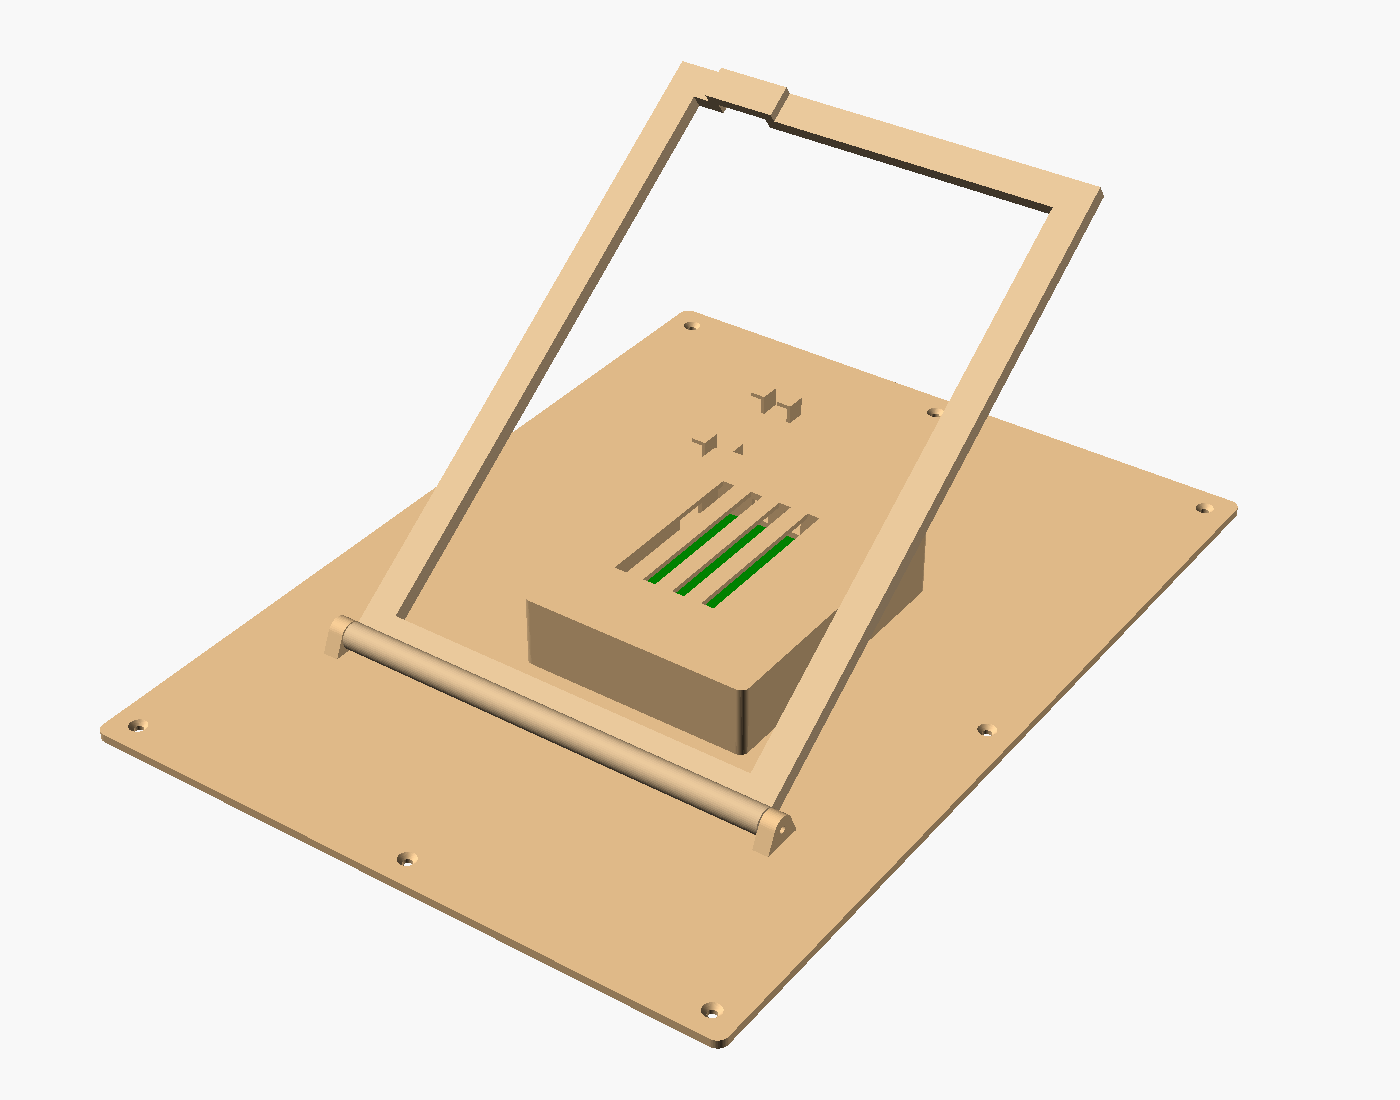
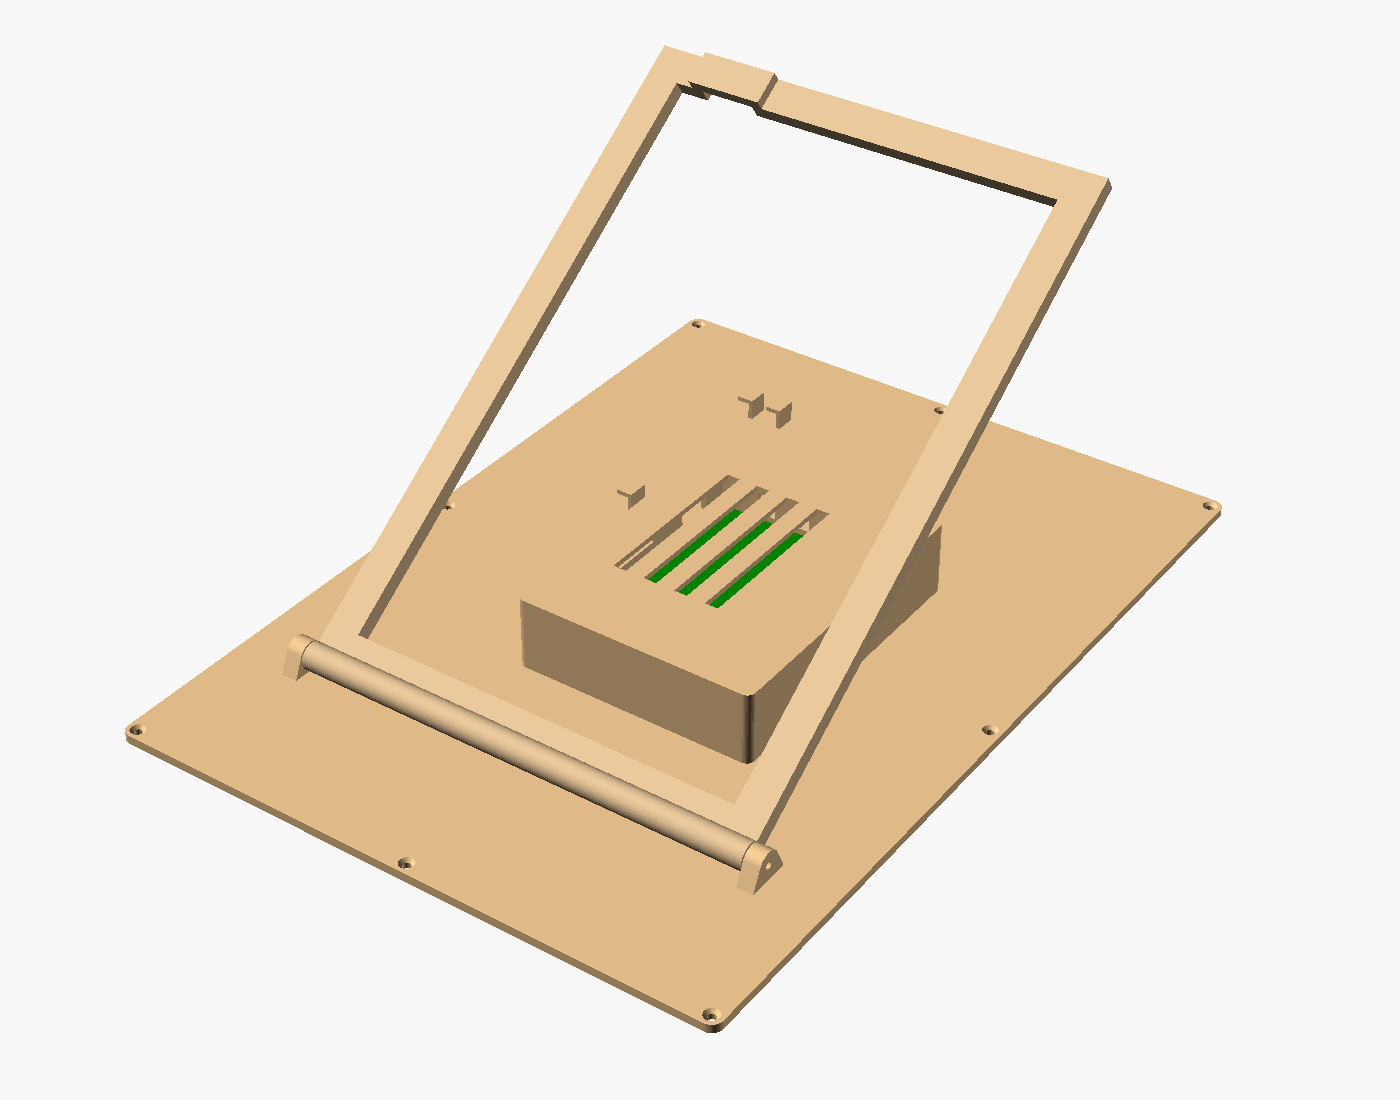
Default the 3D model to the BGA Galant A4 frame

diff --git a/README.md b/README.md
@@ -61,9 +61,10 @@ Electrokit, Kjell & Company or Webhallen. Pimoroni and The Pi Hut ship to Sweden
 | 4× M2.5×6 screws | Pi onto the printed bosses | 20 kr |
 | Official Pi 4 USB-C power supply (5.1 V 3 A) | Use a mains extension cord to reach the socket, not a long USB-C cable | 100 kr |
 | microSD 32 GB **High Endurance** | It writes continuously | 150 kr |
-| A4 / 21×30 cm wooden frame | The back must be flat and about 20 mm wide so screws can go in. Check the rabbet depth | 150–300 kr |
-| 6× wood screws 3×12 mm countersunk, 2× M3×16 screws | M3 screws are the stand's hinge pins | 30 kr |
+| BGA "Galant" A4 frame (22.7×31.4 cm, acrylic) | The 3D model's defaults match it: 8 mm rabbet, 13 mm profile | 150 kr |
+| 6× wood screws 2.5×10 mm countersunk, 2× M3×16 screws | Pre-drill 1.5 mm, because the frame's back edge is only ~8 mm wide. The M3 screws are the stand's hinge pins | 30 kr |
 | Self-adhesive foam/felt strips, 2–3 mm | Press the display against the glass | 50 kr |
+| Black paper/card mask (optional) | The window is about 201×288 mm, so ~9 mm of the display's printed border shows at one end. A cut mask hides it | – |
 | ~300 g PETG or PLA | | |
 
 The fan from your case runs off GPIO pins 4 and 6, but the display ribbon takes the
